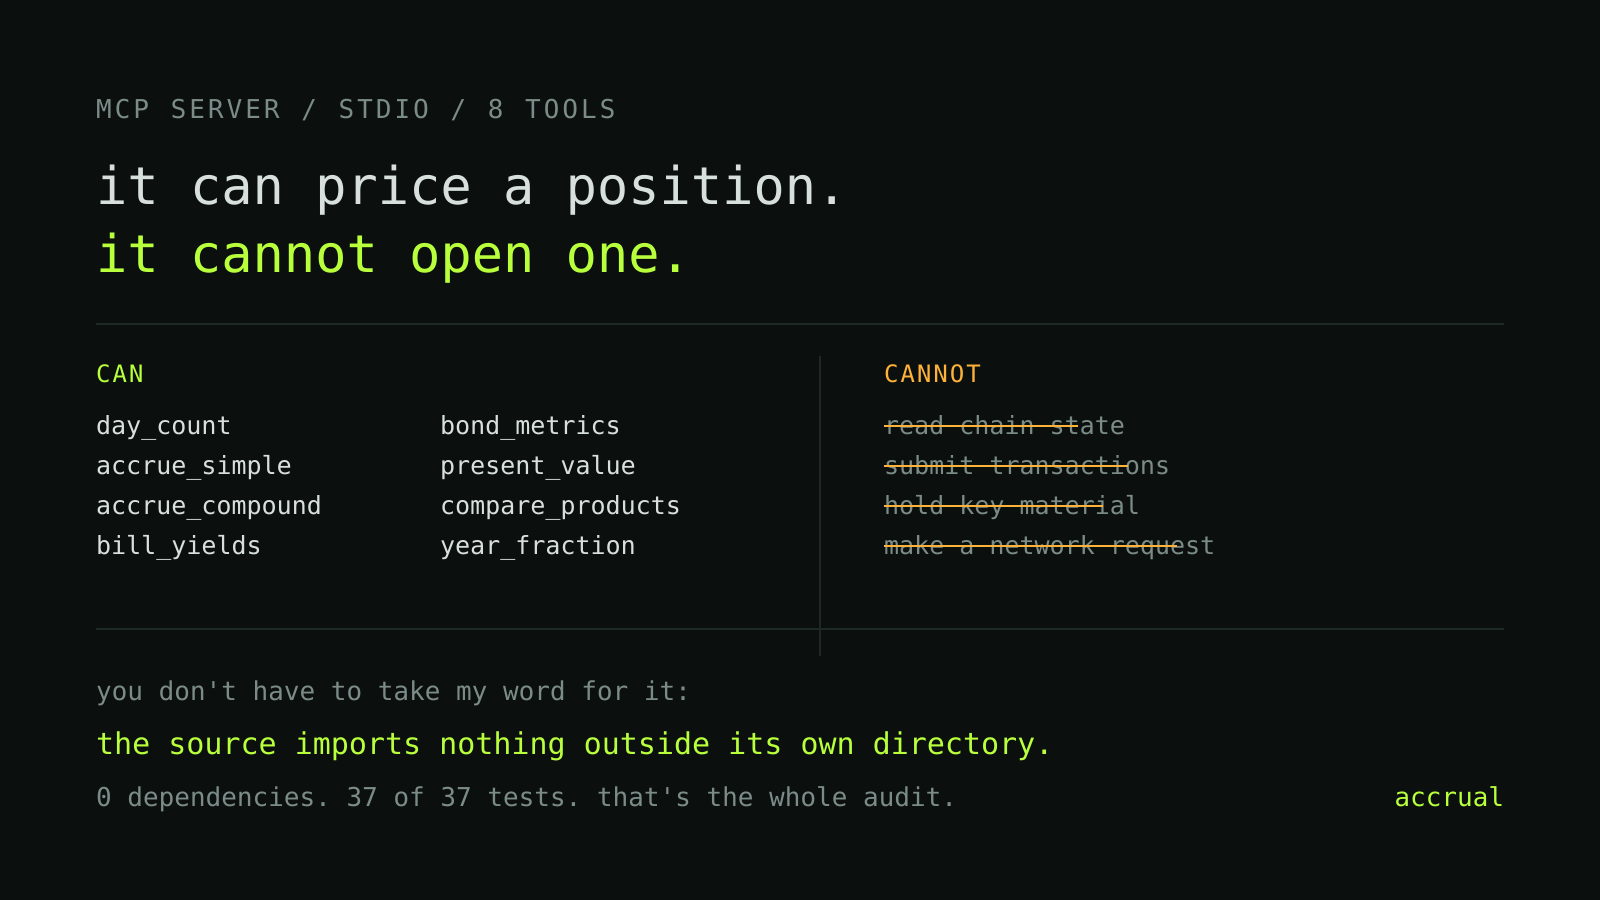
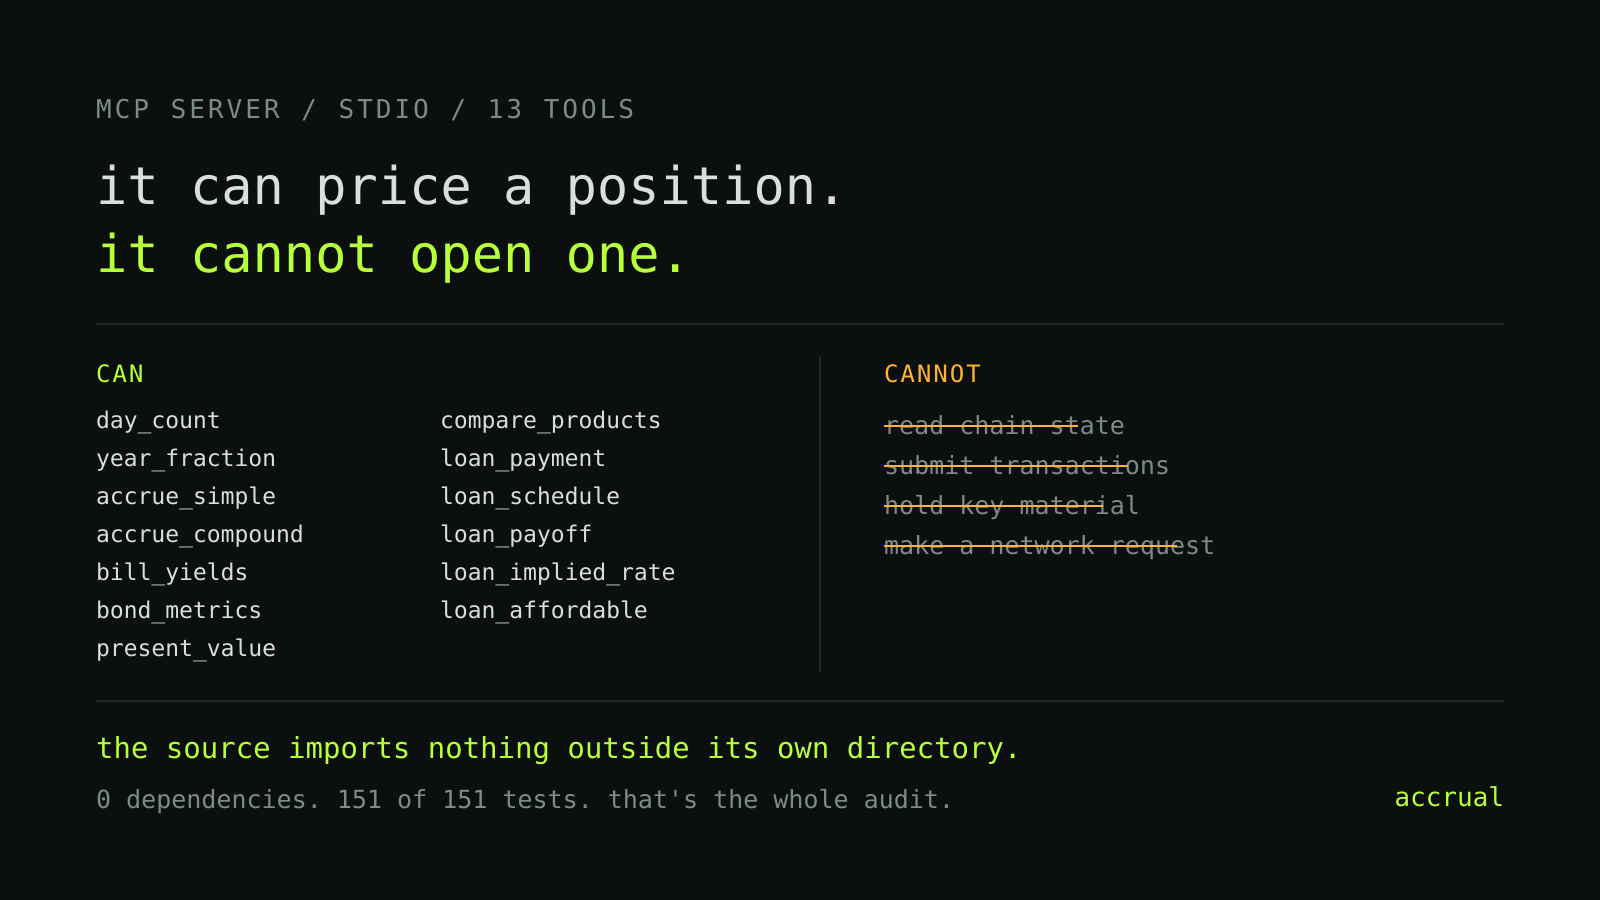
Add npm and symlink share cards, and stop the agent card advertising 8 tools
card-agent.svg claimed 8 MCP tools long after the server grew to 13, so the most
shareable artefact understated the thing it was selling. Names all 13, adds two
cards, and tests the printed figures against the live code.

diff --git a/public/index.html b/public/index.html
@@ -174,7 +174,7 @@
       <div><dt>conventions implemented</dt><dd>6</dd></div>
       <div><dt>30/360 variants</dt><dd>3, not interchangeable</dd></div>
       <div><dt>runtime dependencies</dt><dd>0</dd></div>
-      <div><dt>tests passing</dt><dd>150 / 150</dd></div>
+      <div><dt>tests passing</dt><dd>151 / 151</dd></div>
     </dl>
   </div>
 </section>

diff --git a/README.md b/README.md
@@ -185,7 +185,7 @@ surface, and it reads in a few minutes.
 npm test
 ```
 
-150 tests covering the library, the CLI, the MCP protocol surface and the
+151 tests covering the library, the CLI, the MCP protocol surface and the
 published browser bundle. Two expected values in the loan tests were wrong on
 first writing and were corrected against an independent 40-digit calculation
 rather than adjusted to match the code.
